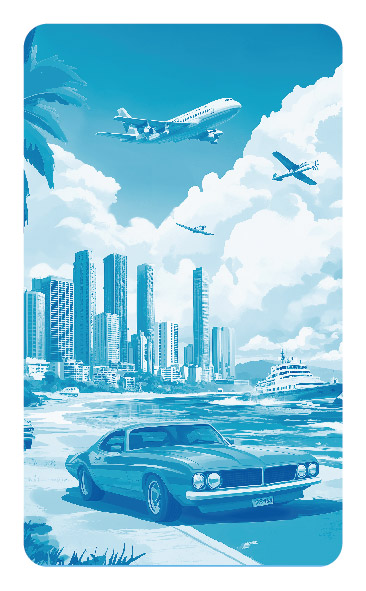
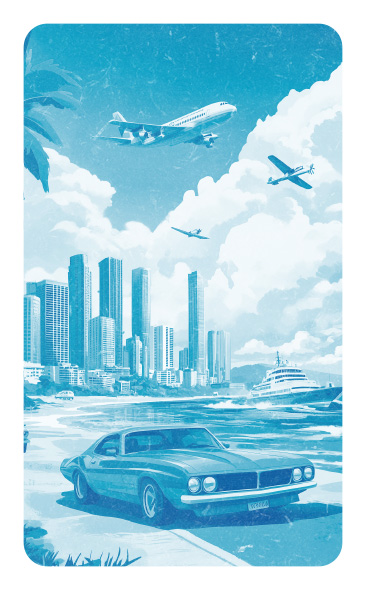
edits and Ships deck added.

diff --git a/public/trumpStyles.css b/public/trumpStyles.css
@@ -28,7 +28,6 @@ body.oldskool-skin {
     --playbutton-path: url(images/assets/oldskool/play.png);
     --menubutton-path: url(images/assets/oldskool/menubutton.jpg);
     --menubg-path: url(images/assets/oldskool/menubackground.jpg);
-    --card-front-image: url(/images/cardbg.jpg);
     --info-background: linear-gradient(0deg, rgba(201,201,201,1) 0%, rgba(255,255,255,1) 36%, rgba(222,222,222,1) 100%);
     --info-colour: #505050;
     --catBoxBackground: none;
@@ -98,7 +97,7 @@ body.default-theme{
     --back-image-path: url(/images/80sCars/back.jpg);
     --card-front-image: url(/images/cardbg.jpg);
     --topline-background: transparent;
-    --image-border: 1px solid #000000; 
+    --image-border: 1px solid #202020; 
     --name-bg-colour: transparent;
     --catBoxColour: #ffffff;
     --catBoxHiliteColour: #acfbad;
@@ -132,6 +131,25 @@ body.classic-theme{
 }
 
 
+body.nautical-theme{
+    --topline-padding: 0;
+    --back-image-path: url(/images/Ships/back.jpg);
+    --card-front-image: url(/images/Ships/front.jpg);
+    --topline-background: transparent;
+    --image-border: 1px solid #2a5370; 
+    --name-bg-colour: #9cd2ff;
+    --catBoxColour: #e7d9b9;
+    --catBoxHiliteColour: #00d0ff;
+    --button-border:2px solid #2a5370;
+    --flag-border: 1px solid #2a5370;
+    --flag-frame: none;
+    --image-border-style: solid;
+    --mix-blend-mode: normal;
+    --topline-text-colour: #2a5370;
+    --card-name-colour:#2a5370;
+    --category-text-colour: #2a5370;
+}
+
 
 body {    
     overflow: visible; /* Allow animations and 3D transforms */
@@ -142,12 +160,16 @@ body {
     color: var(--textColour);
     font-family: "Helvetica", "arial", sans-serif;
     font-size: 14px; 
-    font-weight: 300; 
+    font-weight: 400; 
     text-align: center;
     line-height: 180%;
     display: flex;
     flex-direction: column; /* Ensure content centers vertically */
     transition-timing-function: cubic-bezier(0.19, 1, 0.22, 1);
+    background-image: url('images/assets/landingScreen.jpg'); /* Replace with your image URL */
+    background-size: cover; /* Make sure the image covers the container */
+    background-position: center bottom; /* Center the image */
+    background-repeat: no-repeat; /* Prevent tiling */
 }
 
 hr{
@@ -298,10 +320,12 @@ a {
 .top-trumps-rules{
     margin: 0 auto;
     text-align: left;
-    width: 90vw;
+    width: 100%;
     max-width: 600px;
     padding-left: 40px;
     padding-right: 40px;
+    box-sizing: border-box;
+
 }
 
 .logoOnPage{
@@ -539,8 +563,9 @@ input[type="radio"] {
     position: absolute;
     margin-top: 10vh;
     width: 100%;
+    max-width: 800px;
     height: 90vh;
-    background: #ffffff;
+    background: #f0f0f0;
     color: var(--textColour);
     transform: translateY(-100%); /* Start off-screen above */
     transition: transform 0.15s ease-out; /* Smooth sliding effect */
@@ -690,7 +715,7 @@ input[type="radio"] {
     background-image: var(--card-front-image);
     background-repeat: no-repeat;
     background-attachment: fixed; 
-    background-size: 100% 100%;
+    background-size: cover;
     border-radius: calc(var(--card-height) * 0.05);
     width: fit-content;
     position: absolute; /* Stack front and back on top of each other */
@@ -701,7 +726,7 @@ input[type="radio"] {
 /* Back face styling */
 #cardBack {
     /*background-image: url(images/80sCars/back.jpg);*/
-    background-size: contain;
+    background-size: cover;
     display: flex;
     justify-content: center;
     align-items: center;

diff --git a/public/script.js b/public/script.js
@@ -302,6 +302,7 @@ function loseGame() {
     cardContainer.offsetHeight; // Force reflow (to reset styles)
     
     // Start the animation
+    endScreenImg.src ="images/assets/loser.png"
     endScreen.style.display = "flex";
     cardContainer.classList.add('flyOff');
     console.log('lose Game');
@@ -579,9 +580,14 @@ function updateCard() {
     cardFlag.src = "images/flags/" + cardDeets[2] + ".svg";
     
     for (let i = 0; i < 5; i++) {
-        let formattedNumber = Number(cardDeets[i + 3]).toLocaleString(); // Format the number
-        statButtons[i].innerHTML = `<p class="tabbed-line">${categories[i + 3]}: <span class="tab">${formattedNumber}</span></p>`;
+        // Check if the category includes 'year' or 'Year'
+        let category = categories[i + 3];
+        let value = Number(cardDeets[i + 3]);
+        let formattedNumber = category.toLowerCase().includes('year') ? value : value.toLocaleString();
+    
+        statButtons[i].innerHTML = `<p class="tabbed-line">${category}: <span class="tab">${formattedNumber}</span></p>`;
     }
+    
 
     console.log("updateCard: ",cardDeets);
 }
